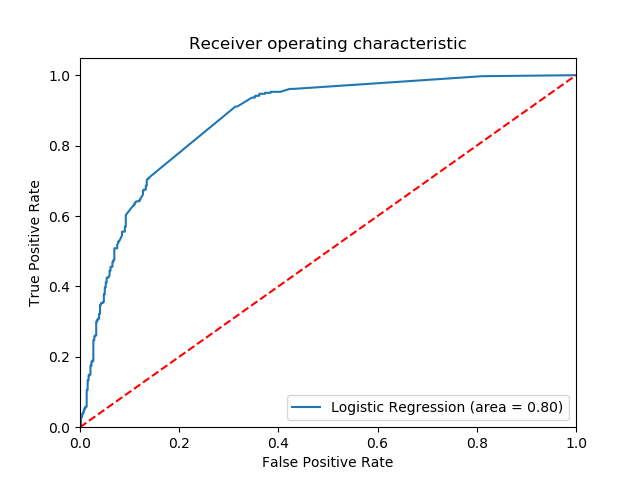
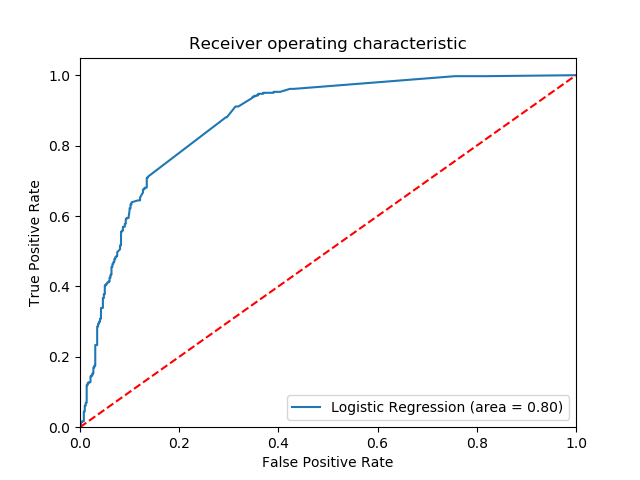
add ROC

diff --git a/src/db_basic_data_stats.py b/src/db_basic_data_stats.py
@@ -18,6 +18,7 @@ from sklearn import model_selection
 from sklearn.model_selection import cross_val_score
 from sklearn.metrics import classification_report
 from pandas.plotting import scatter_matrix
+from sklearn.metrics import confusion_matrix
 import statsmodels.api as sm
 import warnings
 warnings.filterwarnings('ignore')
@@ -30,97 +31,34 @@ psql_password = os.environ.get('PSQL_PASSWORD')
 
 def logistic_regression(df):
     logreg = LogisticRegression()
+    columns = ['dup_protocol_started','caffeine_yn', 'married_yn', 'usual_activity_len', 'alcohol_yn', 'bio_sex_answered', 'bio_sex', 'menstruation_yn', 'blood_type_answered', 'usual_diet_len', 'usual_medications_len', 'usual_conditions_len']
     #X=df[['dup_protocol_started','caffeine_yn', 'married_yn', 'usual_activity_len', 'alcohol_yn', 'bio_sex_answered', 'bio_sex', 'menstruation_yn', 'blood_type_answered', 'usual_diet_len', 'usual_medications_len', 'usual_conditions_len']]
     #X=df[['dup_protocol_started','caffeine_yn', 'married_yn', 'usual_activity_len', 'bio_sex_answered', 'menstruation_yn', 'blood_type_answered', 'usual_diet_len', 'usual_medications_len']]
-    X=stand(df[['dup_protocol_started','caffeine_yn', 'married_yn', 'usual_activity_len', 'bio_sex_answered', 'menstruation_yn', 'blood_type_answered', 'usual_diet_len', 'usual_medications_len']])
+    #X=stand(df[['dup_protocol_started','caffeine_yn', 'married_yn', 'usual_activity_len', 'bio_sex_answered', 'menstruation_yn', 'blood_type_answered', 'usual_diet_len', 'usual_medications_len']])
+    X=stand(df[['dup_protocol_started','caffeine_yn', 'married_yn', 'usual_activity_len', 'alcohol_yn', 'bio_sex_answered', 'bio_sex', 'menstruation_yn', 'blood_type_answered', 'usual_diet_len', 'usual_medications_len', 'usual_conditions_len']])
+
     y=df['user_active_yn']
     logit_model=sm.Logit(y,X)
     result=logit_model.fit()
     print(result.summary())
-    '''        Optimization terminated successfully.
-                 Current function value: 0.526785
-                 Iterations 6
-                                   Logit Regression Results
-        ==============================================================================
-        Dep. Variable:         user_active_yn   No. Observations:                 2933
-        Model:                          Logit   Df Residuals:                     2921
-        Method:                           MLE   Df Model:                           11
-        Date:                Wed, 14 Mar 2018   Pseudo R-squ.:                  0.2185
-        Time:                        16:15:48   Log-Likelihood:                -1545.1
-        converged:                       True   LL-Null:                       -1977.1
-                                                LLR p-value:                3.387e-178
-        =========================================================================================
-                                    coef    std err          z      P>|z|      [0.025      0.975]
-        -----------------------------------------------------------------------------------------
-        dup_protocol_started      2.0052      0.109     18.390      0.000       1.792       2.219
-        caffeine_yn               0.5336      0.140      3.799      0.000       0.258       0.809
-        married_yn                0.3289      0.130      2.537      0.011       0.075       0.583
-        usual_activity_len        0.0076      0.002      3.052      0.002       0.003       0.012
-        alcohol_yn                0.1439      0.140      1.031      0.303      -0.130       0.417
-        bio_sex_answered         -2.1063      0.165    -12.738      0.000      -2.430      -1.782
-        bio_sex                  -0.0544      0.151     -0.360      0.719      -0.351       0.242
-        menstruation_yn           0.3793      0.198      1.915      0.055      -0.009       0.767
-        blood_type_answered       0.4903      0.201      2.434      0.015       0.096       0.885
-        usual_diet_len            0.0036      0.002      1.918      0.055   -7.82e-05       0.007
-        usual_medications_len     0.0105      0.005      2.104      0.035       0.001       0.020
-        usual_conditions_len     -0.0006      0.002     -0.241      0.809      -0.005       0.004
-        =========================================================================================
 
-        Accuracy of logistic regression classifier on test set: 0.7761363636363636
-
-        10-fold cross validation average accuracy: 0.7973431210040255
-        10-fold cross validation average recall: 0.8910320505409649
-        10-fold cross validation average precision: 0.6895829278788901
-
-                     precision    recall  f1-score   support
-                  0       0.89      0.70      0.79       520
-                  1       0.67      0.88      0.76       360
-        avg / total       0.80      0.78      0.78       880'''
-
-    '''vs 2
-        Optimization terminated successfully.
-             Current function value: 0.526996
-             Iterations 6
-                               Logit Regression Results
-    ==============================================================================
-    Dep. Variable:         user_active_yn   No. Observations:                 2933
-    Model:                          Logit   Df Residuals:                     2924
-    Method:                           MLE   Df Model:                            8
-    Date:                Wed, 14 Mar 2018   Pseudo R-squ.:                  0.2182
-    Time:                        16:28:52   Log-Likelihood:                -1545.7
-    converged:                       True   LL-Null:                       -1977.1
-                                            LLR p-value:                6.059e-181
-    =========================================================================================
-                                coef    std err          z      P>|z|      [0.025      0.975]
-    -----------------------------------------------------------------------------------------
-    dup_protocol_started      2.0102      0.109     18.451      0.000       1.797       2.224
-    caffeine_yn               0.5956      0.125      4.768      0.000       0.351       0.840
-    married_yn                0.3423      0.129      2.654      0.008       0.090       0.595
-    usual_activity_len        0.0077      0.002      3.134      0.002       0.003       0.012
-    bio_sex_answered         -2.1518      0.099    -21.661      0.000      -2.347      -1.957
-    menstruation_yn           0.4179      0.153      2.740      0.006       0.119       0.717
-    blood_type_answered       0.4939      0.201      2.456      0.014       0.100       0.888
-    usual_diet_len            0.0036      0.002      1.983      0.047    4.08e-05       0.007
-    usual_medications_len     0.0106      0.005      2.153      0.031       0.001       0.020
-    =========================================================================================
-
-    Accuracy of logistic regression classifier on test set: 0.7784090909090909
-
-    10-fold cross validation average accuracy: 0.7992967085010656
-    10-fold cross validation average recall: 0.9086556035571437
-    10-fold cross validation average precision: 0.6866515937577335
-
-                 precision    recall  f1-score   support
-              0       0.92      0.69      0.79       520
-              1       0.67      0.91      0.77       360
-    avg / total       0.82      0.78      0.78       880
-    '''
     X_train, X_test, y_train, y_test = train_test_split(X, y, test_size=0.3, random_state=0)
     logreg = LogisticRegression()
     logreg.fit(X_train, y_train)
     y_pred = logreg.predict(X_test)
-    print(f'Accuracy of logistic regression classifier on test set: {logreg.score(X_test, y_test)}')
+    print("With train test fix")
+    print(f'Mean accuracy of logistic regression classifier on test set: {logreg.score(X_test, y_test)}')
+    print(confusion_matrix(y_test, y_pred))
+    print("tn, fp\nfn, tp")
+    print('\n\n')
 
+    coef_list = pd.DataFrame(data = {'features':columns, 'estimatedCoefficients':logreg.coef_.ravel()})
+    coef_list['sort'] = coef_list.estimatedCoefficients.abs()
+    print(coef_list.sort_values(by='sort', ascending=False))
+    print(f'Estimated intercept: {logreg.intercept_}')
+    print_roc_curve(y_test, logreg, X_test)
+
+    print("With KFold cross validation")
     kfold = model_selection.KFold(n_splits=10, random_state=7)
     modelCV = LogisticRegression()
     scoring = 'accuracy'
@@ -761,10 +699,10 @@ lasso_attempt(user_profile_df.drop(['user_id','estimated_created_date'],axis=1))
 user_profile_df = csv_to_df('user_profile.csv')
 user_profile_df['estimated_created_date'] = user_profile_df['estimated_created_date'].astype('datetime64[ns]')
 
-#logistic_regression(user_profile_df)
+logistic_regression(user_profile_df)
 #linear_regression(user_profile_df.loc[user_profile_df['user_active_yn']==1])
 
-dec_vs_other_months(user_profile_df[['user_id','user_active_yn','user_activity_score', 'user_activity_cnt', 'days_active', 'days_inactive', 'estimated_created_date']])
+#dec_vs_other_months(user_profile_df[['user_id','user_active_yn','user_activity_score', 'user_activity_cnt', 'days_active', 'days_inactive', 'estimated_created_date']])
 
 
 # plt.scatter(counts_df['entry_chosen_datetime_cnt'], counts_df['entry_id_cnt'])
